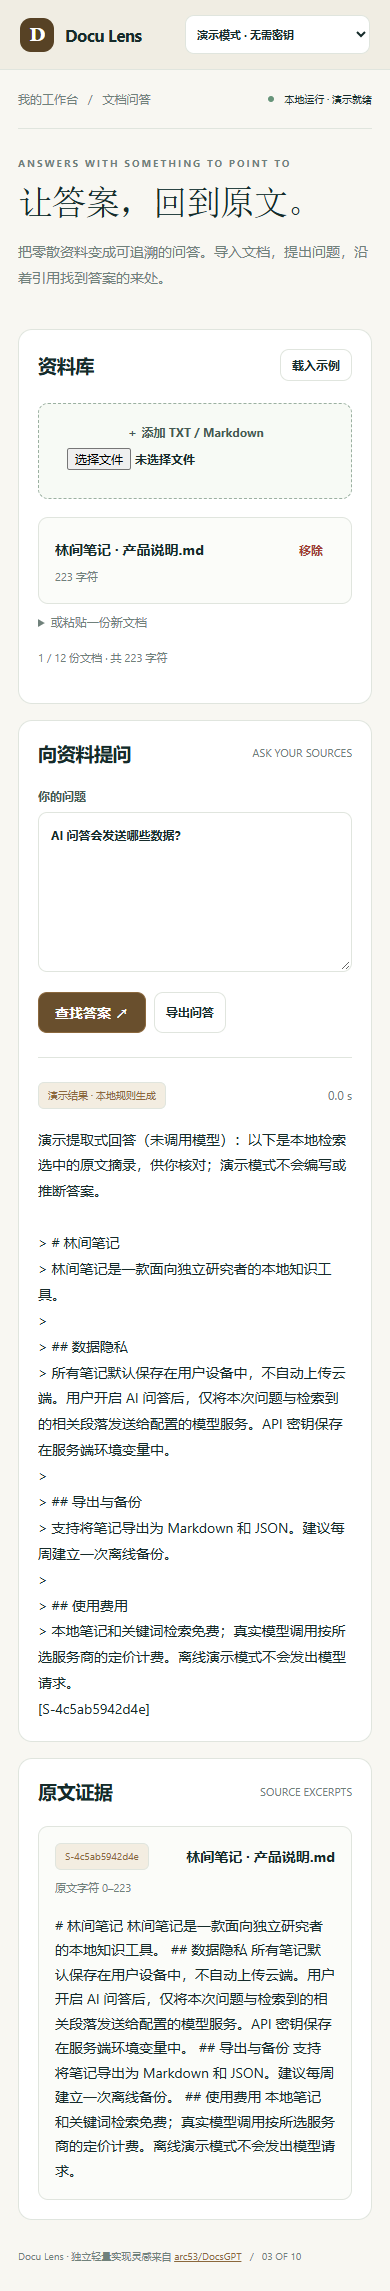
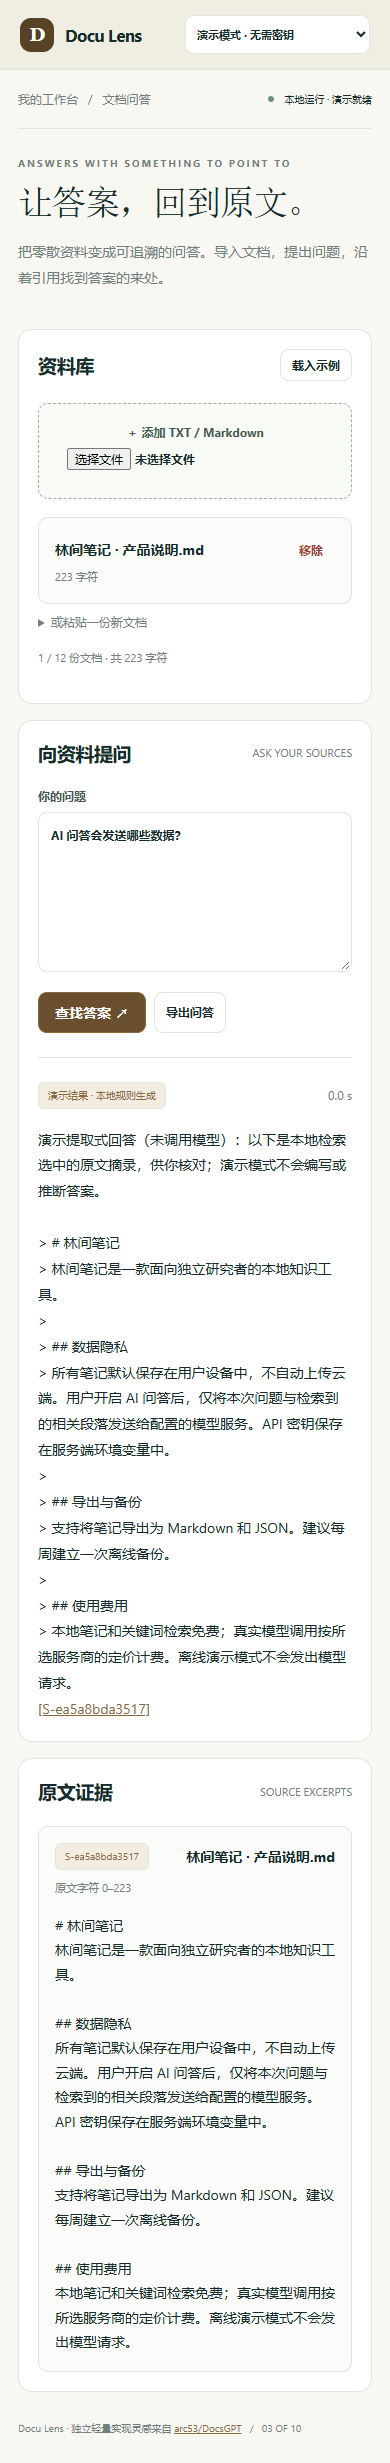
Link answer citations to original document excerpts

diff --git a/public/app.js b/public/app.js
@@ -127,13 +127,20 @@ $("#question-form").onsubmit = async (e) => {
   try {
     const r = await run({ question, documents: docs });
     history.push({ question, ...r.data, mode: r.meta.mode });
+    let answerHtml = markdown(r.data.answer);
+    for (const source of r.data.sources) {
+      answerHtml = answerHtml.replaceAll(
+        `[${source.id}]`,
+        `<a href="#source-${escape(source.id)}">[${escape(source.id)}]</a>`,
+      );
+    }
     $("#answer").innerHTML =
-      `<div class="meta">${resultMeta(r.meta)}</div>${markdown(r.data.answer)}`;
+      `<div class="meta">${resultMeta(r.meta)}</div>${answerHtml}`;
     $("#sources").innerHTML = r.data.sources.length
       ? r.data.sources
           .map(
             (s) =>
-              `<article class="card"><div class="row between"><span class="pill">${escape(s.id)}</span><strong>${escape(s.name)}</strong></div><p class="hint">原文字符 ${s.start}–${s.end}</p><p>${escape(s.text)}</p></article>`,
+              `<article id="source-${escape(s.id)}" class="card"><div class="row between"><span class="pill">${escape(s.id)}</span><strong>${escape(s.name)}</strong></div><p class="hint">原文字符 ${s.start}–${s.end}</p><p class="source-text">${escape(s.text)}</p></article>`,
           )
           .join("")
       : '<p class="muted">没有匹配片段。尝试使用资料中出现的具体词语。</p>';

diff --git a/public/style.css b/public/style.css
@@ -623,3 +623,5 @@ form > .grid3 {
 #documents {
   margin-top: 18px;
 }
+.source-text { white-space: pre-wrap; }
+.card:target { outline: 2px solid var(--accent); outline-offset: 3px; }
